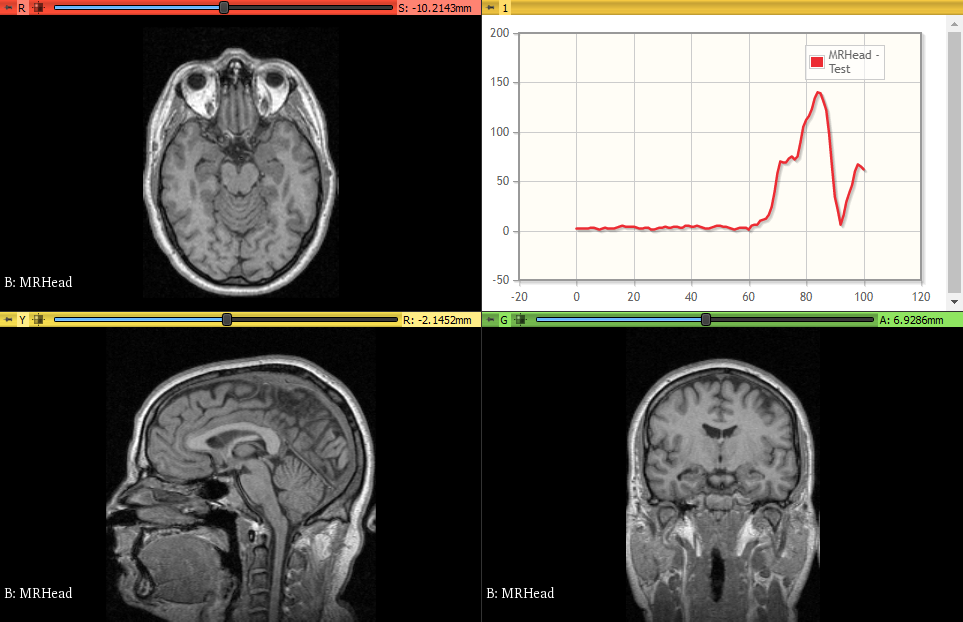
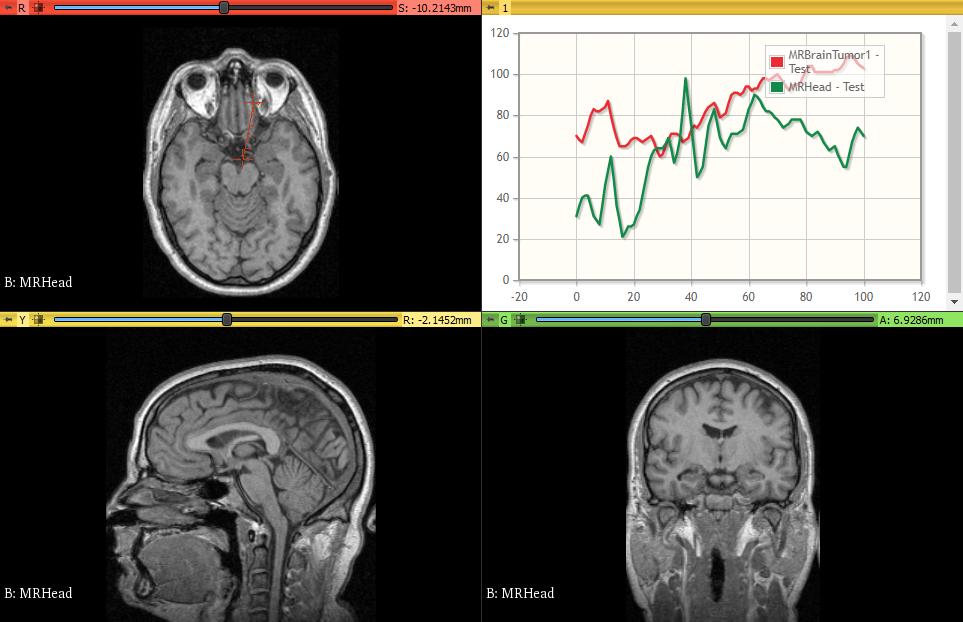
add chnages to python file and test image

diff --git a/LineIntensityProfile/LineIntensityProfile.py b/LineIntensityProfile/LineIntensityProfile.py
@@ -304,28 +304,30 @@ class LineIntensityProfileTest(ScriptedLoadableModuleTest):
     
     import SampleData
     sampleDataLogic = SampleData.SampleDataLogic()
-    volumeNode = sampleDataLogic.downloadMRHead()
-
+    volumeNode1 = sampleDataLogic.downloadMRBrainTumor1()
+    volumeNode2 = sampleDataLogic.downloadMRHead()
+    
     self.delayDisplay('Loaded test data set')
    
     logic = LineIntensityProfileLogic()
     
-    self.assertIsNotNone( logic.hasImageData(volumeNode) )
+    self.assertIsNotNone( logic.hasImageData(volumeNode1) )
+    self.assertIsNotNone( logic.hasImageData(volumeNode2) )
   
     # initialize ruler node in a known location
     rulerNode = slicer.vtkMRMLAnnotationRulerNode()
     slicer.mrmlScene.AddNode(rulerNode)
-    rulerNode.SetPosition1(-65,100,60)
-    rulerNode.SetPosition2(-15,60,60)
+    rulerNode.SetPosition1(-5,10,-10)
+    rulerNode.SetPosition2(-15,60,-10)
     rulerNode.SetName('Test')
     
     # initialize input selectors
     moduleWidget = slicer.modules.LineIntensityProfileWidget
-  # moduleWidget.rulerSelector.setCurrentNode(rulerNode)
-    # moduleWidget.inputSelector1.setCurrentNode(volumeNode)
-    # moduleWidget.inputSelector2.setCurrentNode(volumeNode)
+    moduleWidget.rulerSelector.setCurrentNode(rulerNode)
+    moduleWidget.inputSelector1.setCurrentNode(volumeNode1)
+    moduleWidget.inputSelector2.setCurrentNode(volumeNode2)
 
-    # self.delayDisplay('Inputs initialized!')
+    self.delayDisplay('Inputs initialized!')
     
     moduleWidget.onApplyButton()
     
